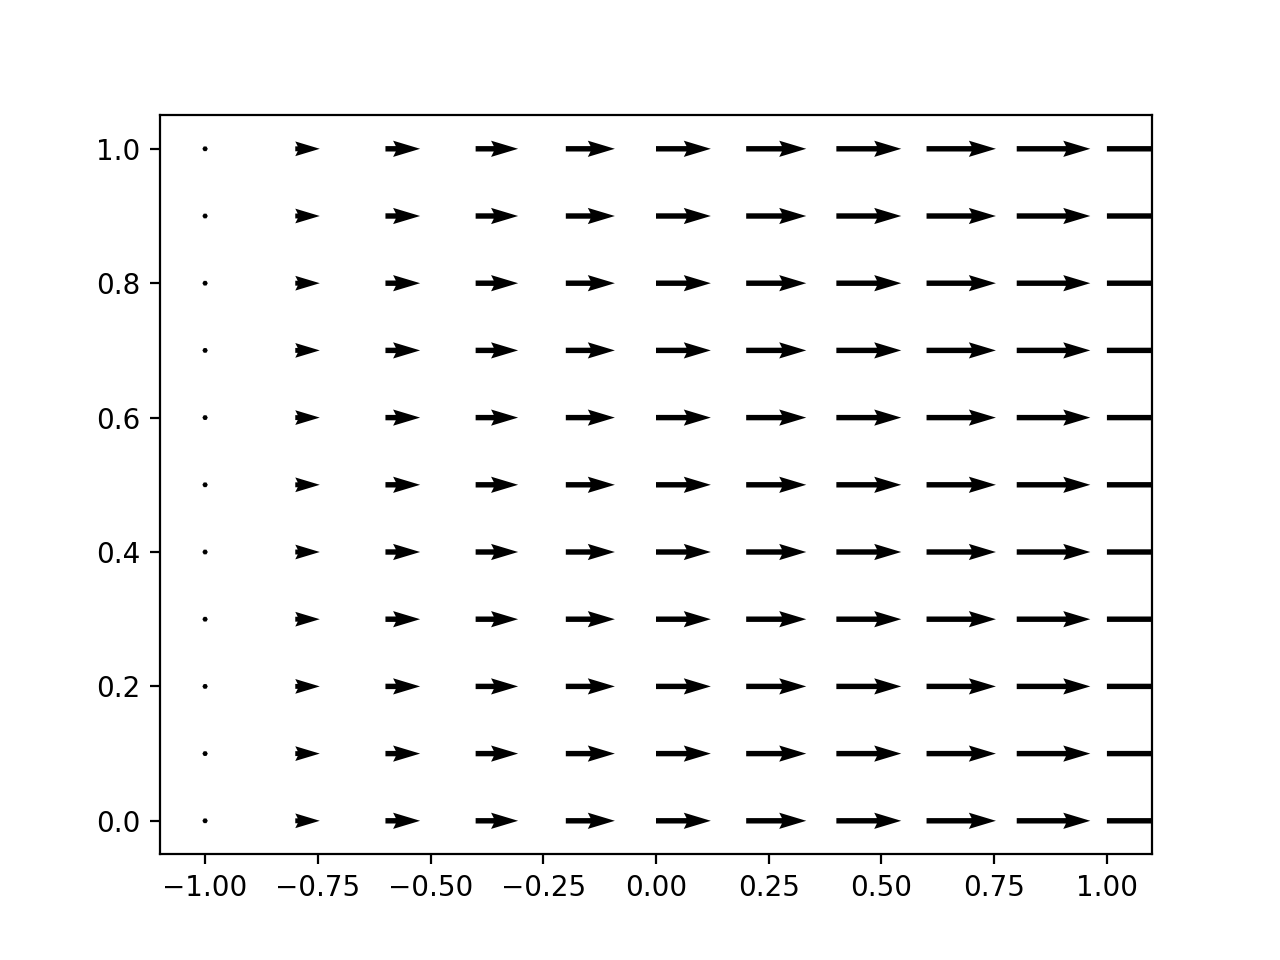
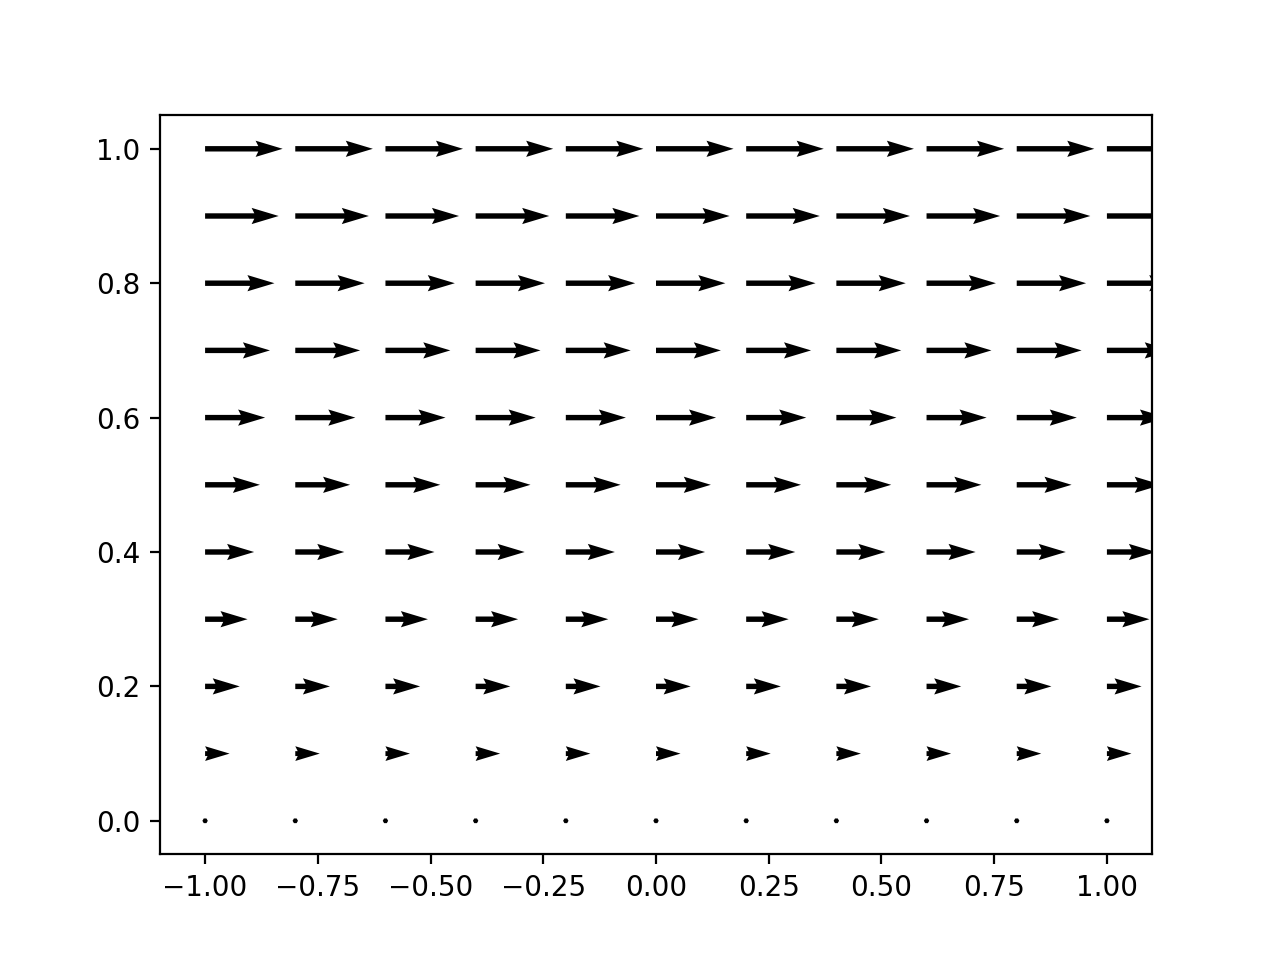
Atualizando dia 31/08

diff --git a/notas.tex b/notas.tex
@@ -489,5 +489,170 @@ O gradiente de um campo escalar é um campo vetorial. Em cada ponto, é o vetor 
 $$\int\cos(t^2)dt \neq \sin(t^2)+C$$
  
  
+ \section{Questão sobre gradientes (10min)}
+
+ $$\vec{F}=x\vec{i}+xe^y\vec{j} + xyz\vec{k}$$ 
+$$\vec{F}\cdot \vec{F}=x^2+x^2e^{2y} + x^2y^2z^2$$ 
+\begin{eqnarray*}
+\vec{\nabla}\left(\vec{F}\cdot\vec{F}\right)&=& \left(2x+2xe^{2y}+2xy^2z^2\right) \vec{i}+
+\left(2x^2e^{2y}+2x^2yz^2\right) \vec{j}
++2 x^2y^2z \vec{k}
+ \end{eqnarray*}
+
+ $$\left(e^y\right)^2=e^{y^2}$$
+ 
+ \section{Campos vetoriais - 31/08}
+Exemplo 1, página 4/2.
+ 
+ \begin{eqnarray*}
+  \vec{F}=\sqrt{y}~\!\vec{i}
+ \end{eqnarray*}
+
+ 
+ \begin{center}
+ \includegraphics[width=10cm]{figs/exemplo_1_4_2.png}
+ \end{center}
+
+ 
+ Exemplo 2.
+ \begin{eqnarray*}
+  \vec{F}=x~\!\vec{i}
+ \end{eqnarray*}
+
+ 
+ \begin{center}
+ \includegraphics[width=10cm]{figs/exemplo_2_4_2.png}
+ \end{center}
+
+
+  Exemplo 3.s
+ \begin{eqnarray*}
+  \vec{F}=-y~\!\vec{i}+x~\!\vec{j}
+ \end{eqnarray*}
+
+ 
+ \begin{center}
+ \includegraphics[width=10cm]{figs/exemplo_3_4_2.png}
+ \end{center}
+
+ \newpage
+
+   Exemplo inverso do quadrado.
+ \begin{eqnarray*}
+  \vec{F}=\frac{\hat{r}}{r^2} =\frac{\vec{r}}{r^3}=\frac{x\vec{i}+y\vec{j}+z\vec{k}}{r^3}
+ \end{eqnarray*}
+
+ 
+ \begin{center}
+ \includegraphics[width=10cm]{figs/campo_inv_q.png}
+ \end{center}
+
+ \section{O operador del - 35min}
+ $$\vec{\nabla}=\vec{i}\frac{\partial}{\partial x}+\vec{j}\frac{\partial}{\partial y}+\vec{k}\frac{\partial}{\partial z}$$
+ 
+ Gradiente:
+ $$\vec{\nabla}f=\vec{i}\frac{\partial}{\partial x}f+\vec{j}\frac{\partial}{\partial y}f+\vec{k}\frac{\partial}{\partial z}f=\vec{i}\frac{\partial f}{\partial x}+\vec{j}\frac{\partial f}{\partial y}+\vec{k}\frac{\partial f}{\partial z}$$
+ 
+ Divergente:
+ \begin{eqnarray*}
+\vec{\nabla}\cdot\vec{F}=\left(\vec{i}\frac{\partial}{\partial x}+\vec{j}\frac{\partial}{\partial y}+\vec{k}\frac{\partial}{\partial z}\right)\cdot\left(F_1\vec{i}+F_2\vec{j}+F_3\vec{k}\right)=  \frac{\partial}{\partial x}F_1+\frac{\partial}{\partial y}F_2 +\frac{\partial}{\partial z}F_3
+ \end{eqnarray*}
+
+ Rotacional:
+ \begin{eqnarray*}
+\vec{\nabla}\times\vec{F}&=&\left(\vec{i}\frac{\partial}{\partial x}+\vec{j}\frac{\partial}{\partial y}+\vec{k}\frac{\partial}{\partial z}\right)\times\left(F_1\vec{i}+F_2\vec{j}+F_3\vec{k}\right)\\
+&=&\left|
+\begin{array}{ccc}
+\vec{i}&\vec{j}&\vec{k} \\
+\frac{\partial}{\partial x } & \frac{\partial}{\partial y } &\frac{\partial}{\partial z } \\
+F_1&F_2&F_3
+\end{array}
+\right|\\
+&=&
+\vec{i}\left(\frac{\partial F_3}{\partial y}-\frac{\partial F_2}{\partial z}\right)
++\vec{j}\left(\frac{\partial F_1}{\partial z}-\frac{\partial F_3}{\partial x}\right)
++\vec{k}\left(\frac{\partial F_2}{\partial x}-\frac{\partial F_1}{\partial y}\right)
+ \end{eqnarray*}
+
+ Laplaciano:
+ 
+ \begin{eqnarray*}
+\nabla^2f &=& \vec{\nabla}\cdot\vec{\nabla}f \\
+&=&\vec{\nabla}\cdot\left( \vec{i}\frac{\partial}{\partial x}f+\vec{j}\frac{\partial}{\partial y}f +\vec{k}\frac{\partial}{\partial z}f\right)\\
+&=&\frac{\partial^2 f}{\partial^2 x}+\frac{\partial^2 f}{\partial^2 y}+\frac{\partial^2 f}{\partial^2 z}
+ \end{eqnarray*}
+
+ 
+\section{Exemplo 4. 55min}
+$$f(x,y)=x+y$$
+$$\vec{\nabla}f = \vec{i} +\vec{j}$$
+ 
+ \section{Exemplo 5. 55min}
+
+ $$\vec{F}=x^2y\vec{i}+2y^3z\vec{j}+3z\vec{k} $$
+ 
+ \begin{eqnarray*}
+  \vec{\nabla}\cdot\vec{F}=2xy+6y^2z+3
+ \end{eqnarray*}
+
+  \begin{eqnarray*}
+\vec{\nabla}\times\vec{F}&=&\left(\vec{i}\frac{\partial}{\partial x}+\vec{j}\frac{\partial}{\partial y}+\vec{k}\frac{\partial}{\partial z}\right)\times\left(F_1\vec{i}+F_2\vec{j}+F_3\vec{k}\right)\\
+&=&\left|
+\begin{array}{ccc}
+\vec{i}&\vec{j}&\vec{k} \\[.2cm]
+\frac{\partial}{\partial x } & \frac{\partial}{\partial y } &\frac{\partial}{\partial z } \\[.2cm]
+x^2y&2y^3z&3z
+\end{array}
+\right|\\
+&=&\left(0-2y^3\right)\vec{i}+\left(0-0\right)\vec{j}+\left(0-x^2\right)\vec{k}
+ \end{eqnarray*}
+
+ 
+\section{Exemplo 6 - 72min}
+$$f=xyz$$
+$$\vec{F}=-y\vec{i}+x\vec{j}+z\vec{k} $$
+\begin{eqnarray*}
+ (\vec{F}\cdot\vec{\nabla})f&=&?
+\end{eqnarray*}
+
+\begin{eqnarray*}
+ (\vec{F}\cdot\vec{\nabla})&=&\left(-y\vec{i}+x\vec{j}+z\vec{k}\right)\cdot\left(\vec{i}\frac{\partial}{\partial x}+\vec{j}\frac{\partial}{\partial y}+\vec{k}\frac{\partial}{\partial z}\right)\\
+ &=&-y\frac{\partial}{\partial x}+x\frac{\partial}{\partial y} + z \frac{\partial}{\partial z}
+\end{eqnarray*}
+
+
+\begin{eqnarray*}
+ (\vec{F}\cdot\vec{\nabla})f&=&\left(-y\frac{\partial}{\partial x}+x\frac{\partial}{\partial y} + z \frac{\partial}{\partial z}\right)(xyz)\\
+ &=&-y(yz)+x(xz)+z(xy)=-y^2z+x^2z+xyz
+\end{eqnarray*}
+
+\section{Exemplo 10 - pág 5/6 - 83min}
+
+$$T = \frac{xy}{1+x^2+y^2}=xy(1+x^2+y^2)^{-1}$$
+
+\begin{eqnarray*}
+ \frac{\partial T}{\partial x}&=&y(1+x^2+y^2)^{-1}-xy(2x)(1+x^2+y^2)^{-2}\\
+ &=&\frac{y(1+x^2+y^2)-2x^2y}{(1+x^2+y^2)^{2}}\\
+ &=&\frac{y-x^2y+y^3}{(1+x^2+y^2)^{2}}
+\end{eqnarray*}
+
+
+\begin{eqnarray*}
+ \frac{\partial T}{\partial y}
+ &=&\frac{x-y^2x+x^3}{(1+x^2+y^2)^{2}}
+\end{eqnarray*}
+
+No ponto $(1,1)$:
+$$\vec{\nabla}T (1,1) = \frac{1}{9}\vec{i}+\frac{1}{9}\vec{j}$$
+
+Direção do vetor $\vec{a}=2\vec{i}-\vec{j}$.
+$$\frac{\partial T}{\partial \vec{u}}=\vec{u}\cdot\nabla f,~~\vec{u}=\frac{\vec{a}}{\|\vec{a}\|}$$
+
+$$\frac{\partial T}{\partial \vec{u}}=\frac{2\vec{i}-\vec{j}}{\sqrt{5}}\cdot\left(\frac{1}{9}\vec{i}+\frac{1}{9}\vec{j}\right)=\frac{1}{9\sqrt{5}}(2-1)=\frac{\sqrt{5}}{45}$$
+
+item b:
+
+$$\vec{u}=-\frac{\vec{\nabla}T}{\|\vec{\nabla}T\|}=\frac{-2\vec{i}+\vec{j}}{\sqrt{5}}$$
+
  \end{document}
 

diff --git a/figs/exemplo_1_4_2.py b/figs/exemplo_1_4_2.py
@@ -18,7 +18,7 @@ for i in range(N):
         X[i, j] = x[i]
         Y[i, j] = y[j]
 
-        F1[i, j] = np.sqrt(y[i])
+        F1[i, j] = np.sqrt(y[j])
         F2[i, j] = 0
 
 fig, ax = plt.subplots()
